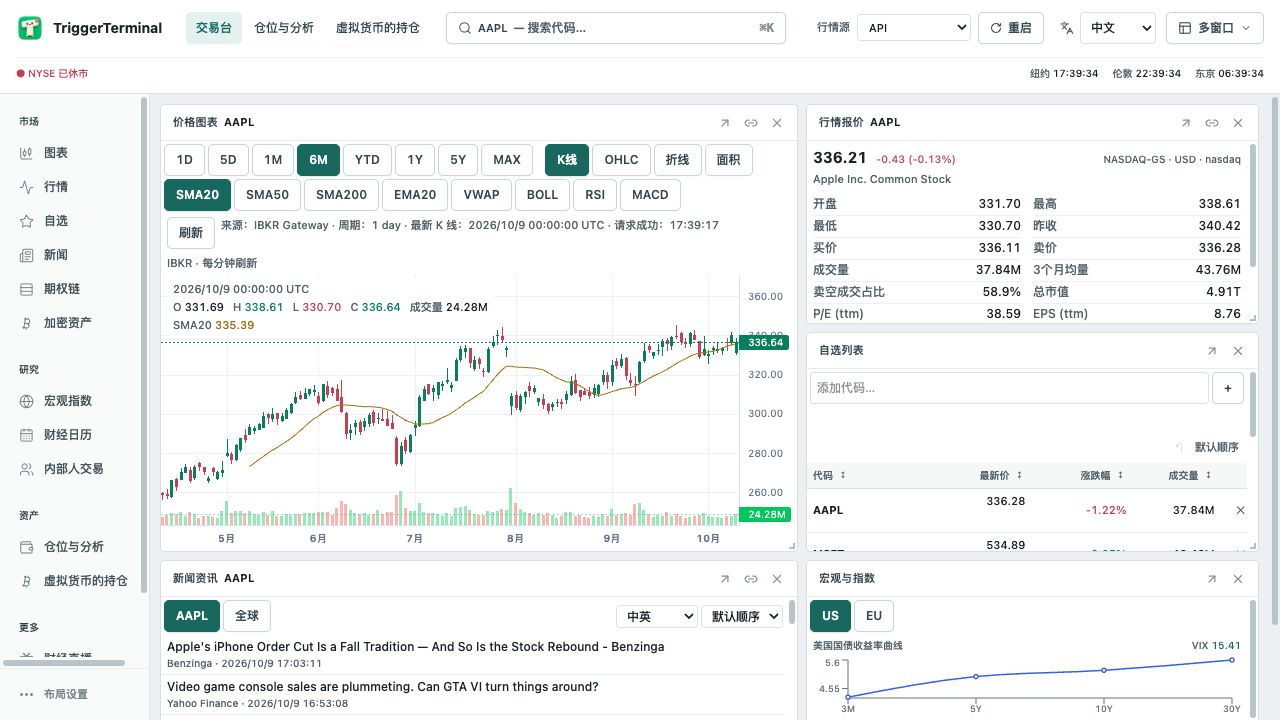
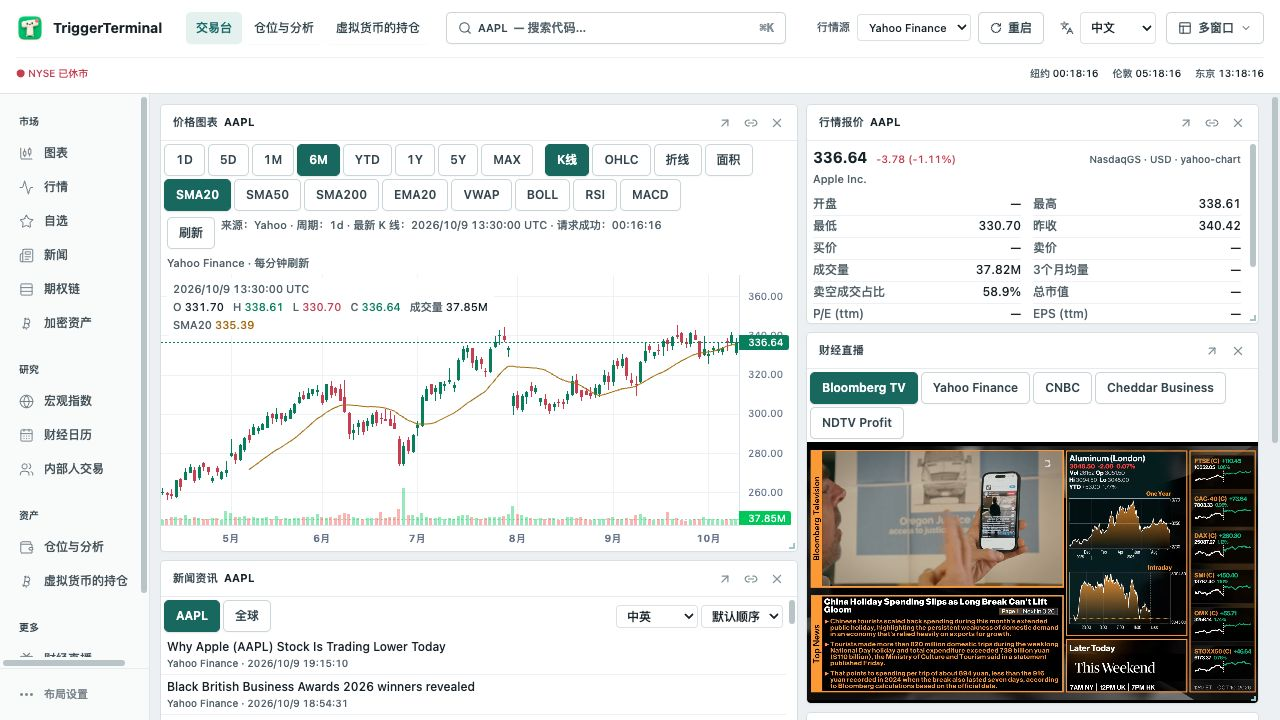
docs: use English screenshots and show live financial TV

diff --git a/README.en.md b/README.en.md
@@ -20,9 +20,9 @@ Stocks, ETFs, funds, futures and options share a portfolio view, organized by as
 
 The list shows the essentials first; click a position to expand its analysis. For options, contracts, quantities, time to expiry, moneyness, probability of profit and P&L appear side by side.
 
-![Options overview showing contracts, expiry, probability of profit, IN / OUT and P&L](docs/images/options-overview.jpg)
+![Options overview showing contracts, expiry, probability of profit, IN / OUT and P&L](docs/images/options-overview-en.jpg)
 
-*Options overview in the Chinese interface. Screenshots use a separate demo account, not real account data.*
+*English interface with a separate demo account. No real account data is shown.*
 
 ## Options analysis: price, probability and risk together
 
@@ -32,9 +32,9 @@ The list shows the essentials first; click a position to expand its analysis. Fo
 
 **Open the details when you need them.** Review cost, valuation, market value, maximum profit and loss, and breakeven prices. Assignment funding, remaining time value, bid–ask spreads and estimated closing P&L provide further context.
 
-![Option detail showing expiry countdown, price position, profit probability and assignment funding](docs/images/option-analysis.jpg)
+![Option detail showing expiry countdown, price position, profit probability and assignment funding](docs/images/option-analysis-en.jpg)
 
-*A short put example in the Chinese interface, with profit probability and expiry IN / OUT shown separately.*
+*A short put example, with profit probability and expiry IN / OUT shown separately.*
 
 ### From individual legs to strategies
 
@@ -48,11 +48,13 @@ Probabilities use spot, strike, remaining time, implied volatility, interest rat
 
 ## Market workspace
 
-Keep charts, quotes, watchlists and news in the same workspace, arranged around how you read the market. Review price action alongside quotes and related news with fewer window changes.
+Keep charts, quotes, watchlists, news and financial TV in the same workspace. Place a live broadcast beside your chart to follow market coverage while reviewing prices. Panels can be moved, resized or opened in separate windows.
 
-![Market workspace with price charts, quotes, a watchlist and financial content](docs/images/market-workspace.jpg)
+Add **Live TV** from the sidebar and choose a channel. Playback starts muted; availability depends on the broadcaster, region and network.
 
-*A view of the running workspace, shown in Chinese.*
+![Market workspace with a price chart, quotes, news and Bloomberg TV](docs/images/market-workspace-en.jpg)
+
+*English workspace with Bloomberg TV playing beside the chart. Broadcasts and headlines remain in their original language.*
 
 ## Where the data comes from
 
@@ -64,6 +66,7 @@ Keep charts, quotes, watchlists and news in the same workspace, arranged around 
 | Fund NAV | Supported TD funds use TD Asset Management's official pages, with checks for fund code, series currency and NAV date. Not all funds are supported. |
 | Model interest rates and dividends | USD rates reference U.S. Treasury term rates. Dividend inputs use IBKR, Yahoo Finance or verified issuer information. |
 | News | Yahoo Finance RSS, Google News aggregation and the original publishers they link to. |
+| Financial TV | External streaming feeds for the selected channel. Video connects directly to the stream provider. |
 
 Quotes may be live, delayed, frozen or the last available observation, depending on market hours, subscriptions and provider access. Fields can have different sources and timestamps. Use the displayed provenance, timestamps and missing-data status to check them; do not assume every number is live.
 
